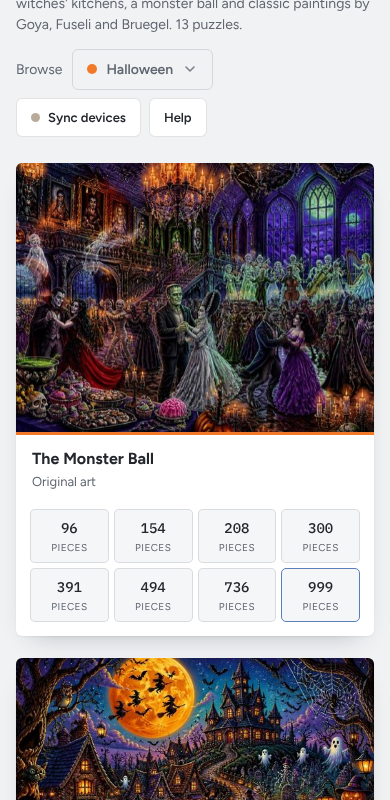
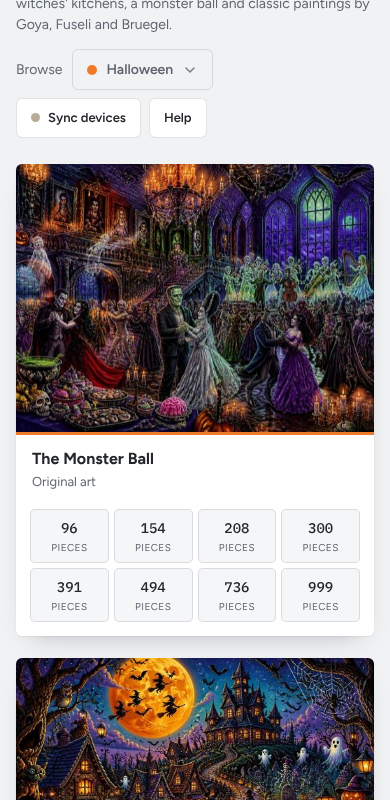
Header steps replace the size line; no puzzle counts anywhere; Good vibes listed above Halloween
Claude-Session: https://claude.ai/code/session_01X4jKmC36k778ncv5ZPyc4q

diff --git a/public/index.html b/public/index.html
@@ -61,6 +61,9 @@ button{font:inherit;color:inherit}
 .mast .intro{min-width:0}
 .mast h1{font-family:var(--display);font-weight:400;font-size:clamp(42px,8vw,76px);line-height:1;letter-spacing:-.01em;margin:0;color:var(--head-soft);text-wrap:balance}
 .mast h1 span{color:var(--head-ink)}
+.steps{list-style:none;padding:0;margin:22px 0 0;display:flex;flex-wrap:wrap;gap:10px 22px}
+.steps li{display:flex;align-items:center;gap:9px;font-weight:700;font-size:15px;font-family:"Nunito",var(--body);color:var(--head-ink)}
+.steps b{flex:none;width:30px;height:30px;border-radius:50%;display:flex;align-items:center;justify-content:center;font-size:14px;color:#23262b}
 .mast p{font-family:"Nunito",var(--body);font-size:clamp(16px,2vw,19px);line-height:1.55;margin:24px 0 0;max-width:36em;color:var(--head-ink);opacity:.95}
 .shelfhead{margin:26px 0 14px}
 .shelfhead h2{font-family:var(--display);font-weight:400;font-size:clamp(24px,3.2vw,30px);line-height:1.1;margin:0;color:var(--ink)}
@@ -285,7 +288,8 @@ label.hard input{accent-color:var(--brass-text);width:16px;height:16px;margin:0}
   <header class="mast"><div class="wrap">
     <div class="intro">
       <h1>Puzzle <span>Parlor</span></h1>
-      <p id="lede">Jigsaw puzzles of spooky Halloween scenes, cozy Christmas and holiday pictures, famous paintings, fantasy worlds, fairy tales and landscapes.<br>Pick any picture and choose from 100 to 1,000 pieces.</p>
+      <p id="lede">Jigsaw puzzles of spooky Halloween scenes, cozy Christmas and holiday pictures, famous paintings, fantasy worlds, fairy tales and landscapes.</p>
+      <ol class="steps"><li><b style="background:#cfe0f7">1</b>Pick any picture</li><li><b style="background:#f6c453">2</b>Choose your size</li><li><b style="background:#b5e48c">3</b>Watch it come together</li></ol>
     </div>
 <section id="promo" hidden aria-label="Special offer">
       <div class="pic"><img id="promoImg" alt="" width="520" height="390"><span class="kick" id="promoKick"></span></div>
@@ -416,6 +420,7 @@ label.hard input{accent-color:var(--brass-text);width:16px;height:16px;margin:0}
 const THEME_SUB={"halloween": "Spooky jigsaw puzzles for the season: haunted villages, witches' kitchens, a monster ball and classic paintings by Goya, Fuseli and Bruegel.", "holiday": "Festive puzzles through the year: Thanksgiving, winter ice scenes, village autumns and the Feast of St. Nicholas.", "christmas": "Cozy Christmas jigsaw puzzles: Bruegel's snowy villages, Botticelli's nativity, Carl Larsson's Christmas Eve, Santa's workshop and a gingerbread village.", "paintings": "Famous paintings as jigsaw puzzles: Van Gogh, Monet, Seurat, Klimt, Renoir, Bosch and Hokusai's Great Wave.", "fantasy": "Titans, heroes, fairy fellers and the end of days. Adventure puzzles from Thomas Cole, Vasnetsov, John Martin and more.", "fairytales": "Storybook puzzles: Vasnetsov's Russian fairy tales, John Bauer's forest princess, a gingerbread house and a kingdom of your own.", "landscapes": "Mountains, canyons, forests and coastlines from Bierstadt, Church, Moran, Cole, Shishkin and Van Gogh.", "animals": "Animal puzzles with a smile: a woodland picnic, chaos at the cat cafe, dog park day and a waterhole at sunset.", "sports": "Street circuits, drag races, regattas and a day in the field. Sports puzzles full of action.", "vibes": "Zen gardens, koi ponds, uplifting sayings and a little silliness. Puzzles for a good mood."};
 const CATS=[
   {id:'home',label:'Home'},
+  {id:'vibes',label:'Good vibes'},
   {id:'halloween',label:'Halloween'},
   {id:'holiday',label:'Holidays'},
   {id:'christmas',label:'Christmas'},
@@ -425,7 +430,6 @@ const CATS=[
   {id:'landscapes',label:'Landscapes'},
   {id:'animals',label:'Animals'},
   {id:'sports',label:'Sports'},
-  {id:'vibes',label:'Good vibes'},
   {id:'photos',label:'My photos'}];
 const IMAGES=[{"cat": "halloween", "slug": "monster-ball", "title": "The Monster Ball", "artist": "Original art", "year": "", "w": 2912, "h": 2176, "page": "", "isNew": true, "added": ""}, {"cat": "halloween", "slug": "haunted-village", "title": "Haunted Hollow Village", "artist": "Original art", "year": "", "w": 2912, "h": 2176, "page": "", "isNew": true, "added": ""}, {"cat": "halloween", "slug": "haunted-library", "title": "The Haunted Library", "artist": "Original art", "year": "", "w": 2912, "h": 2912, "page": "", "isNew": true, "added": "2026-10-26"}, {"cat": "halloween", "slug": "witches-sabbath", "title": "Witches' Sabbath", "artist": "Francisco Goya", "year": "1797–98", "w": 1792, "h": 2560, "page": "https://commons.wikimedia.org/wiki/File:Francisco_de_Goya_y_Lucientes_-_Witches_Sabbath_-_Google_Art_Project.jpg", "isNew": false, "added": ""}, {"cat": "halloween", "slug": "triumph-of-death", "title": "The Triumph of Death", "artist": "Pieter Bruegel the Elder", "year": "c. 1562", "w": 2126, "h": 1517, "page": "https://commons.wikimedia.org/wiki/File:The_Triumph_of_Death_by_Pieter_Bruegel_the_Elder.jpg", "isNew": false, "added": ""}, {"cat": "halloween", "slug": "isle-of-the-dead", "title": "Isle of the Dead", "artist": "Arnold Böcklin", "year": "1880", "w": 2560, "h": 1825, "page": "https://commons.wikimedia.org/wiki/File:Arnold_B%C3%B6cklin_-_Die_Toteninsel_I_(Basel,_Kunstmuseum).jpg", "isNew": false, "added": ""}, {"cat": "halloween", "slug": "the-nightmare", "title": "The Nightmare", "artist": "Henry Fuseli", "year": "1781", "w": 3000, "h": 2431, "page": "https://commons.wikimedia.org/wiki/File:John_Henry_Fuseli_-_The_Nightmare.JPG", "isNew": false, "added": ""}, {"cat": "halloween", "slug": "flight-of-witches", "title": "Flight of the Witches", "artist": "Francisco Goya", "year": "1798", "w": 1681, "h": 2400, "page": "https://commons.wikimedia.org/wiki/File:Francisco_de_Goya_-_Vuelo_de_brujas_(1798).jpg", "isNew": false, "added": ""}, {"cat": "holiday", "slug": "ice-skaters", "title": "Ice Scene", "artist": "Hendrick Avercamp", "year": "1610", "w": 2400, "h": 1204, "page": "https://commons.wikimedia.org/wiki/File:Hendrick_Avercamp_-_Ice_Scene_-_785_-_Rijksmuseum.jpg", "isNew": false, "added": ""}, {"cat": "holiday", "slug": "st-nicholas", "title": "The Feast of St. Nicholas", "artist": "Jan Steen", "year": "c. 1663–65", "w": 2047, "h": 2400, "page": "https://commons.wikimedia.org/wiki/File:Jan_Havicksz._Steen_%E2%80%93_Het_Sint-Nicolaasfeest_%E2%80%93_Google_Art_Project.jpg", "isNew": false, "added": ""}, {"cat": "holiday", "slug": "thanksgiving", "title": "Thanksgiving at Plymouth", "artist": "Jennie Augusta Brownscombe", "year": "1925", "w": 2400, "h": 1808, "page": "https://commons.wikimedia.org/wiki/File:Thanksgiving_at_Plymouth,_1925,_Brownscombe.jpg", "isNew": false, "added": ""}, {"cat": "holiday", "slug": "childrens-games", "title": "Children's Games", "artist": "Pieter Bruegel the Elder", "year": "1560", "w": 2400, "h": 1743, "page": "https://commons.wikimedia.org/wiki/File:Pieter_Bruegel_the_Elder_-_Children%E2%80%99s_Games_-_Google_Art_Project.jpg", "isNew": false, "added": ""}, {"cat": "christmas", "slug": "hunters-in-snow", "title": "Hunters in the Snow", "artist": "Pieter Bruegel the Elder", "year": "1565", "w": 2400, "h": 1708, "page": "https://commons.wikimedia.org/wiki/File:Pieter_Bruegel_the_Elder_-_Hunters_in_the_Snow_(Winter)_-_Google_Art_Project.jpg", "isNew": false, "added": ""}, {"cat": "christmas", "slug": "bethlehem", "title": "The Census at Bethlehem", "artist": "Pieter Bruegel the Elder", "year": "1566", "w": 2400, "h": 1663, "page": "https://commons.wikimedia.org/wiki/File:Pieter_Bruegel_the_Elder_-_The_Numbering_at_Bethlehem_-_Google_Art_Project.jpg", "isNew": false, "added": ""}, {"cat": "christmas", "slug": "merry-christmas", "title": "Merry Christmas (Glade jul)", "artist": "Viggo Johansen", "year": "1891", "w": 2400, "h": 1933, "page": "https://commons.wikimedia.org/wiki/File:Viggo_Johansen_-_Glade_jul_-_1891.jpg", "isNew": false, "added": ""}, {"cat": "christmas", "slug": "christmas-eve", "title": "Christmas Eve", "artist": "Carl Larsson", "year": "1904–05", "w": 2400, "h": 1648, "page": "https://commons.wikimedia.org/wiki/File:Julaftonen_av_Carl_Larsson_1904.jpg", "isNew": false, "added": ""}, {"cat": "christmas", "slug": "mystic-nativity", "title": "Mystic Nativity", "artist": "Sandro Botticelli", "year": "c. 1500", "w": 1661, "h": 2400, "page": "https://commons.wikimedia.org/wiki/File:Mystic_Nativity_by_Sandro_Botticelli.jpg", "isNew": false, "added": ""}, {"cat": "paintings", "slug": "starry-night", "title": "The Starry Night", "artist": "Vincent van Gogh", "year": "1889", "w": 2400, "h": 1901, "page": "https://commons.wikimedia.org/wiki/File:Van_Gogh_-_Starry_Night_-_Google_Art_Project.jpg", "isNew": false, "added": ""}, {"cat": "paintings", "slug": "great-wave", "title": "The Great Wave off Kanagawa", "artist": "After Katsushika Hokusai", "year": "c. 1830–32 design", "w": 2400, "h": 1656, "page": "https://commons.wikimedia.org/wiki/File:The_Great_Wave_off_Kanagawa.jpg", "isNew": false, "added": ""}, {"cat": "paintings", "slug": "grande-jatte", "title": "A Sunday on La Grande Jatte", "artist": "Georges Seurat", "year": "1884–86", "w": 2400, "h": 1598, "page": "https://commons.wikimedia.org/wiki/File:Georges_Seurat_-_A_Sunday_on_La_Grande_Jatte_--_1884_-_Google_Art_Project.jpg", "isNew": false, "added": ""}, {"cat": "paintings", "slug": "the-kiss", "title": "The Kiss", "artist": "Gustav Klimt", "year": "1907–08", "w": 2392, "h": 2400, "page": "https://commons.wikimedia.org/wiki/File:The_Kiss_-_Gustav_Klimt_-_Google_Cultural_Institute.jpg", "isNew": false, "added": ""}, {"cat": "paintings", "slug": "water-lilies", "title": "Water Lilies", "artist": "Claude Monet", "year": "1916", "w": 3000, "h": 3005, "page": "https://commons.wikimedia.org/wiki/File:Claude_Monet_-_Water_Lilies_-_Google_Art_Project_(462013).jpg", "isNew": false, "added": ""}, {"cat": "paintings", "slug": "cafe-terrace", "title": "Café Terrace at Night", "artist": "Vincent van Gogh", "year": "1888", "w": 1913, "h": 2400, "page": "https://commons.wikimedia.org/wiki/File:Vincent_Willem_van_Gogh_-_Cafe_Terrace_at_Night_(Yorck).jpg", "isNew": false, "added": ""}, {"cat": "paintings", "slug": "boating-party", "title": "Luncheon of the Boating Party", "artist": "Pierre-Auguste Renoir", "year": "1880–81", "w": 2400, "h": 1778, "page": "https://commons.wikimedia.org/wiki/File:Pierre-Auguste_Renoir_-_Luncheon_of_the_Boating_Party_-_Google_Art_Project.jpg", "isNew": false, "added": ""}, {"cat": "paintings", "slug": "earthly-delights", "title": "The Garden of Earthly Delights", "artist": "Hieronymus Bosch", "year": "c. 1480–1505", "w": 2400, "h": 1366, "page": "https://commons.wikimedia.org/wiki/File:The_Garden_of_earthly_delights.jpg", "isNew": false, "added": ""}, {"cat": "fantasy", "slug": "titans-goblet", "title": "The Titan's Goblet", "artist": "Thomas Cole", "year": "1833", "w": 1920, "h": 2288, "page": "https://commons.wikimedia.org/wiki/File:The_Titan%27s_Goblet_MET_DP-12799-001.jpg", "isNew": false, "added": ""}, {"cat": "fantasy", "slug": "midsummer-eve", "title": "Midsummer Eve", "artist": "Edward Robert Hughes", "year": "c. 1908", "w": 1600, "h": 2400, "page": "https://commons.wikimedia.org/wiki/File:Midsummer_Eve_-_Edward_Robert_Hughes_(1908).jpg", "isNew": false, "added": ""}, {"cat": "fantasy", "slug": "bogatyrs", "title": "Bogatyrs", "artist": "Viktor Vasnetsov", "year": "1898", "w": 3000, "h": 1928, "page": "https://commons.wikimedia.org/wiki/File:1898_Vasnetsov_Bogatyrs_anagoria.JPG", "isNew": false, "added": ""}, {"cat": "fantasy", "slug": "fairy-feller", "title": "The Fairy Feller's Master-Stroke", "artist": "Richard Dadd", "year": "c. 1855–64", "w": 1728, "h": 2400, "page": "https://commons.wikimedia.org/wiki/File:Richard_Dadd_-_The_Fairy_Feller%27s_Master-Stroke_-_Google_Art_Project.jpg", "isNew": false, "added": ""}, {"cat": "fantasy", "slug": "voyage-of-life", "title": "The Voyage of Life: Childhood", "artist": "Thomas Cole", "year": "1842", "w": 2400, "h": 1621, "page": "https://commons.wikimedia.org/wiki/File:Thomas_Cole_-_The_Voyage_of_Life_Childhood,_1842_(National_Gallery_of_Art).jpg", "isNew": false, "added": ""}, {"cat": "fantasy", "slug": "wrath", "title": "The Great Day of His Wrath", "artist": "John Martin", "year": "c. 1851–53", "w": 2400, "h": 1548, "page": "https://commons.wikimedia.org/wiki/File:John_Martin_-_The_Great_Day_of_His_Wrath_-_Google_Art_Project.jpg", "isNew": false, "added": ""}, {"cat": "landscapes", "slug": "sierra-nevada", "title": "Among the Sierra Nevada, California", "artist": "Albert Bierstadt", "year": "1868", "w": 3000, "h": 1794, "page": "https://commons.wikimedia.org/wiki/File:Albert_Bierstadt_-_Among_the_Sierra_Nevada,_California_-_Google_Art_Project.jpg", "isNew": false, "added": ""}, {"cat": "landscapes", "slug": "landers-peak", "title": "The Rocky Mountains, Lander's Peak", "artist": "Albert Bierstadt", "year": "1863", "w": 3000, "h": 1797, "page": "https://commons.wikimedia.org/wiki/File:Albert_Bierstadt_-_The_Rocky_Mountains,_Lander%27s_Peak.jpg", "isNew": false, "added": ""}, {"cat": "landscapes", "slug": "heart-of-andes", "title": "Heart of the Andes", "artist": "Frederic Edwin Church", "year": "1859", "w": 3000, "h": 1642, "page": "https://commons.wikimedia.org/wiki/File:Church_Heart_of_the_Andes.jpg", "isNew": false, "added": ""}, {"cat": "landscapes", "slug": "yellowstone", "title": "The Grand Canyon of the Yellowstone", "artist": "Thomas Moran", "year": "1872", "w": 3000, "h": 1757, "page": "https://commons.wikimedia.org/wiki/File:Smithsonian-Moran-The_Grand_Canyon_of_the_Yellowstone-2283.jpg", "isNew": false, "added": ""}, {"cat": "landscapes", "slug": "the-oxbow", "title": "The Oxbow", "artist": "Thomas Cole", "year": "1836", "w": 3000, "h": 2038, "page": "https://commons.wikimedia.org/wiki/File:Cole_Thomas_The_Oxbow_(The_Connecticut_River_near_Northampton_1836).jpg", "isNew": false, "added": ""}, {"cat": "landscapes", "slug": "pine-forest", "title": "Morning in a Pine Forest", "artist": "Ivan Shishkin and Konstantin Savitsky", "year": "1889", "w": 3000, "h": 2033, "page": "https://commons.wikimedia.org/wiki/File:Shishkin,_Ivan_-_Morning_in_a_Pine_Forest.jpg", "isNew": false, "added": ""}, {"cat": "landscapes", "slug": "wheat-cypresses", "title": "Wheat Field with Cypresses", "artist": "Vincent van Gogh", "year": "1889", "w": 3000, "h": 2386, "page": "https://commons.wikimedia.org/wiki/File:Vincent_van_Gogh_-_Wheat_Field_with_Cypresses_(National_Gallery_version).jpg", "isNew": false, "added": ""}, {"cat": "landscapes", "slug": "sea-of-fog", "title": "Wanderer above the Sea of Fog", "artist": "Caspar David Friedrich", "year": "c. 1817", "w": 1874, "h": 2400, "page": "https://commons.wikimedia.org/wiki/File:Caspar_David_Friedrich_-_Wanderer_above_the_sea_of_fog.jpg", "isNew": false, "added": ""}, {"cat": "fairytales", "slug": "grey-wolf", "title": "Ivan Tsarevich Riding the Grey Wolf", "artist": "Viktor Vasnetsov", "year": "1889", "w": 1824, "h": 2400, "page": "https://commons.wikimedia.org/wiki/File:Moscou,_galerie_Tretiakov_Ivan-Tsarevitch_at_the_Grey_Wolf_(Vasnetsov).jpg", "isNew": false, "added": ""}, {"cat": "fairytales", "slug": "flying-carpet", "title": "The Flying Carpet", "artist": "Viktor Vasnetsov", "year": "1880", "w": 3000, "h": 1652, "page": "https://commons.wikimedia.org/wiki/File:Vasnetsov_samolet.jpg", "isNew": false, "added": ""}, {"cat": "fairytales", "slug": "sleeping-princess", "title": "The Sleeping Princess", "artist": "Viktor Vasnetsov", "year": "1900–26", "w": 3000, "h": 1403, "page": "https://commons.wikimedia.org/wiki/File:%D0%A1%D0%BF%D1%8F%D1%89%D0%B0%D1%8F_%D1%86%D0%B0%D1%80%D0%B5%D0%B2%D0%BD%D0%B0.jpg", "isNew": false, "added": ""}, {"cat": "fairytales", "slug": "tuvstarr", "title": "Princess Tuvstarr Gazing into the Forest Pool", "artist": "John Bauer", "year": "1913", "w": 3000, "h": 3025, "page": "https://commons.wikimedia.org/wiki/File:%C3%84nnu_sitter_Tuvstarr_kvar_och_ser_ner_i_vattnet.jpg", "isNew": false, "added": ""}, {"cat": "halloween", "slug": "witch-kitchen", "title": "The Witch's Kitchen", "artist": "Original art", "year": "", "w": 2912, "h": 2176, "page": "", "isNew": true, "added": ""}, {"cat": "halloween", "slug": "midnight-graveyard", "title": "Midnight Graveyard", "artist": "Original art", "year": "", "w": 2912, "h": 2176, "page": "", "isNew": true, "added": ""}, {"cat": "fairytales", "slug": "fairytale-kingdom", "title": "Once Upon a Kingdom", "artist": "Original art", "year": "", "w": 2912, "h": 2176, "page": "", "isNew": true, "added": ""}, {"cat": "fairytales", "slug": "gingerbread-house", "title": "Hansel and Gretel's Gingerbread House", "artist": "Original art", "year": "", "w": 2912, "h": 2176, "page": "", "isNew": true, "added": ""}, {"cat": "christmas", "slug": "santa-workshop", "title": "Santa's Workshop", "artist": "Original art", "year": "", "w": 2912, "h": 2176, "page": "", "isNew": true, "added": ""}, {"cat": "christmas", "slug": "gingerbread-village", "title": "Gingerbread Village", "artist": "Original art", "year": "", "w": 2912, "h": 2176, "page": "", "isNew": true, "added": ""}, {"cat": "christmas", "slug": "sleigh-over-town", "title": "Christmas Eve Flight", "artist": "Original art", "year": "", "w": 2912, "h": 2176, "page": "", "isNew": true, "added": ""}, {"cat": "animals", "slug": "forest-picnic", "title": "The Woodland Picnic", "artist": "Original art", "year": "", "w": 2912, "h": 2176, "page": "", "isNew": true, "added": ""}, {"cat": "animals", "slug": "cat-cafe", "title": "Chaos at the Cat Café", "artist": "Original art", "year": "", "w": 2912, "h": 2176, "page": "", "isNew": true, "added": ""}, {"cat": "animals", "slug": "dog-park", "title": "Dog Park Day", "artist": "Original art", "year": "", "w": 2912, "h": 2176, "page": "", "isNew": true, "added": ""}, {"cat": "sports", "slug": "grand-prix-street", "title": "Street Circuit Showdown", "artist": "Original art", "year": "", "w": 2912, "h": 2184, "page": "", "isNew": true, "added": ""}, {"cat": "sports", "slug": "drag-race", "title": "Sunset Drag Race", "artist": "Original art", "year": "", "w": 2912, "h": 2184, "page": "", "isNew": true, "added": ""}, {"cat": "holiday", "slug": "autumn-village", "title": "Autumn in the Village", "artist": "Original art", "year": "", "w": 2912, "h": 2184, "page": "", "isNew": true, "added": ""}, {"cat": "animals", "slug": "savanna-sunset", "title": "Waterhole at Sunset", "artist": "Original art", "year": "", "w": 2912, "h": 2184, "page": "", "isNew": true, "added": ""}, {"cat": "landscapes", "slug": "aurora-lake", "title": "Northern Lights over the Lake", "artist": "Original art", "year": "", "w": 2912, "h": 1941, "page": "", "isNew": true, "added": ""}, {"cat": "vibes", "slug": "zen-garden", "title": "Evening in the Zen Garden", "artist": "Original art", "year": "", "w": 2912, "h": 2184, "page": "", "isNew": true, "added": ""}, {"cat": "vibes", "slug": "choose-happiness", "title": "Choose Happiness", "artist": "Original art", "year": "", "w": 2912, "h": 1941, "page": "", "isNew": true, "added": "2026-10-20"}, {"cat": "vibes", "slug": "silly-cow", "title": "A Little Silliness", "artist": "Original art", "year": "", "w": 2912, "h": 2184, "page": "", "isNew": true, "added": "2026-10-20"}, {"cat": "sports", "slug": "hunter-and-dog", "title": "The Hunter and His Dog", "artist": "Original art", "year": "", "w": 2912, "h": 1941, "page": "", "isNew": true, "added": ""}, {"cat": "sports", "slug": "regatta", "title": "Regatta Day", "artist": "Original art", "year": "", "w": 2912, "h": 1941, "page": "", "isNew": true, "added": ""}, {"cat": "vibes", "slug": "zen-morning", "title": "Morning in the Zen Garden", "artist": "Original art", "year": "", "w": 2912, "h": 2184, "page": "", "isNew": true, "added": "2026-10-20"}, {"cat": "vibes", "slug": "carnival-lights", "title": "A Night at the Fair", "artist": "Original art", "year": "", "w": 2912, "h": 2184, "page": "", "isNew": true, "added": "2026-10-20"}, {"cat": "vibes", "slug": "zen-bamboo", "title": "The Bamboo Zen Garden", "artist": "Original art", "year": "", "w": 2912, "h": 1664, "page": "", "isNew": true, "added": "2026-10-20"}, {"cat": "vibes", "slug": "zen-waterfall", "title": "Buddha by the Waterfall", "artist": "Original art", "year": "", "w": 2912, "h": 1664, "page": "", "isNew": true, "added": "2026-10-20"}, {"cat": "halloween", "slug": "monster-ball-toon", "title": "Monsters' Night Out", "artist": "Original art", "year": "", "w": 2912, "h": 1941, "page": "", "isNew": true, "added": "2026-10-20"}, {"cat": "halloween", "slug": "trick-or-treat-lane", "title": "Trick-or-Treat Lane", "artist": "Original art", "year": "", "w": 2912, "h": 1941, "page": "", "isNew": true, "added": "2026-10-20"}, {"cat": "halloween", "slug": "witch-kitchen-toon", "title": "The Witch's Brew", "artist": "Original art", "year": "", "w": 2912, "h": 1941, "page": "", "isNew": true, "added": "2026-10-20"}, {"cat": "vibes", "slug": "koi-garden-sunset", "title": "Koi Garden at Sunset", "artist": "Original art", "year": "", "w": 2912, "h": 1941, "page": "", "isNew": true, "added": "2026-10-20"}, {"cat": "vibes", "slug": "zen-stones", "title": "Balance", "artist": "Original art", "year": "", "w": 2912, "h": 2912, "page": "", "isNew": true, "added": "2026-10-23"}, {"cat": "vibes", "slug": "stay-wild", "title": "Stay a Little Wild", "artist": "Original art", "year": "", "w": 2912, "h": 2912, "page": "", "isNew": true, "added": "2026-10-26"}, {"cat": "animals", "slug": "owl-at-dusk", "title": "Owl at Dusk", "artist": "Original art", "year": "", "w": 2912, "h": 2912, "page": "", "isNew": true, "added": "2026-10-27"}, {"cat": "animals", "slug": "reef-paradise", "title": "Reef Paradise", "artist": "Original art", "year": "", "w": 2912, "h": 1941, "page": "", "isNew": true, "added": "2026-10-27"}, {"cat": "animals", "slug": "tide-pools-sunset", "title": "Tide Pools at Sunset", "artist": "Original art", "year": "", "w": 2912, "h": 1941, "page": "", "isNew": true, "added": "2026-10-27"}, {"cat": "animals", "slug": "koi-pond", "title": "Koi Pond at Dusk", "artist": "Original art", "year": "", "w": 2912, "h": 2184, "page": "", "isNew": true, "added": "2026-10-27"}, {"cat": "sports", "slug": "speedway-sunset", "title": "Speedway at Sunset", "artist": "Original art", "year": "", "w": 2912, "h": 1941, "page": "", "isNew": true, "added": "2026-10-27"}, {"cat": "sports", "slug": "stadium-lights", "title": "Under the Stadium Lights", "artist": "Original art", "year": "", "w": 2912, "h": 2184, "page": "", "isNew": true, "added": "2026-10-27"}, {"cat": "holiday", "slug": "harvest-kitchen", "title": "The Harvest Kitchen", "artist": "Original art", "year": "", "w": 2912, "h": 2912, "page": "", "isNew": true, "added": "2026-10-27"}, {"cat": "fairytales", "slug": "enchanted-cottage", "title": "The Enchanted Cottage", "artist": "Original art", "year": "", "w": 2912, "h": 2912, "page": "", "isNew": true, "added": "2026-10-27"}, {"cat": "fairytales", "slug": "wandering-bookshop", "title": "The Wandering Bookshop", "artist": "Original art", "year": "", "w": 2912, "h": 2184, "page": "", "isNew": true, "added": "2026-10-27"}, {"cat": "landscapes", "slug": "lantern-festival", "title": "The Lantern Festival", "artist": "Original art", "year": "", "w": 2912, "h": 1941, "page": "", "isNew": true, "added": "2026-10-27"}, {"cat": "landscapes", "slug": "winter-cabin", "title": "Cabin Under the Northern Lights", "artist": "Original art", "year": "", "w": 2912, "h": 1941, "page": "", "isNew": true, "added": "2026-10-27"}, {"cat": "paintings", "slug": "paris-rainy-day", "title": "Paris Street; Rainy Day", "artist": "Gustave Caillebotte", "year": "1877", "w": 3000, "h": 2272, "page": "https://commons.wikimedia.org/wiki/File:Gustave_Caillebotte_-_Paris_Street;_Rainy_Day_-_Google_Art_Project.jpg", "isNew": true, "added": "2026-10-27"}, {"cat": "paintings", "slug": "woman-parasol", "title": "Woman with a Parasol", "artist": "Claude Monet", "year": "1875", "w": 3000, "h": 3727, "page": "https://commons.wikimedia.org/wiki/File:Claude_Monet_-_Woman_with_a_Parasol_-_Madame_Monet_and_Her_Son_-_Google_Art_Project.jpg", "isNew": true, "added": "2026-10-27"}, {"cat": "vibes", "slug": "zen-sunset", "title": "Sunset over the Zen Garden", "artist": "Original art", "year": "", "w": 2912, "h": 2184, "page": "", "isNew": true, "added": "2026-10-27"}];
 const SIZES=[100,150,200,300,400,500,750,1000];
@@ -541,7 +545,7 @@ function renderTabs(){
   $('themeBtn').style.setProperty('--dot',`var(--c-${c.id})`); $('themeBtn').querySelector('i').style.background=`var(--c-${c.id})`;
   $('themeName').textContent=c.label;
   $('shelfTitle').textContent=c.id==='home'?"Today's Featured Puzzles":c.id==='photos'?'My photos':c.label;
-  $('shelfSub').textContent=c.id==='home'?'Enjoy our selection of free jigsaw puzzles, from famous paintings to original art, in sizes from 100 to 1,000 pieces. Upgrade to the unlocked version to play every puzzle in every theme.':c.id==='photos'?'Puzzles made from your own pictures, on this device only.':(THEME_SUB[c.id]||'')+` ${countOf(c.id)} puzzles.`;
+  $('shelfSub').textContent=c.id==='home'?'Enjoy our selection of free jigsaw puzzles, from famous paintings to original art, in sizes from 100 to 1,000 pieces. Upgrade to the unlocked version to play every puzzle in every theme.':c.id==='photos'?'Puzzles made from your own pictures, on this device only.':(THEME_SUB[c.id]||'');
   $('themeMenu').innerHTML='<li class="hint" role="presentation">Choose a theme · star it to keep a shortcut</li>'+CATS.filter(x=>x.id==='photos'||countOf(x.id)>0).map(x=>`<li role="option" aria-selected="${x.id===cat}" class="${x.id===cat?'cur':''}"><button class="pick" data-cat="${x.id}" style="--dot:var(--c-${x.id})"><i></i>${x.label}</button><button class="pinb" data-pin="${x.id}" aria-pressed="${pins.includes(x.id)}" aria-label="${pins.includes(x.id)?'Unpin':'Pin'} ${x.label}" title="${pins.includes(x.id)?'Remove shortcut':'Keep as a shortcut'}">${PIN_SVG}</button></li>`).join('');
   $('pins').innerHTML=pins.map(id=>{const x=CATS.find(c=>c.id===id);return `<button class="tab" id="tab-${id}" aria-pressed="${id===cat}" aria-selected="${id===cat}" style="--dot:var(--c-${id})" data-cat="${id}"><i></i>${x.label}</button>`}).join('');
 }
@@ -619,7 +623,7 @@ function openLook(img){ if(!img) return; const im=$('lookImg'); im.src=thumbOf(i
   $('look').hidden=false; }
 $('look').onclick=()=>{$('look').hidden=true;$('lookImg').src=''};
 document.addEventListener('keydown',e=>{ if(e.key==='Escape'&&!$('look').hidden){$('look').hidden=true;$('lookImg').src=''} });
-$('lede').innerHTML='Jigsaw puzzles of spooky Halloween scenes, cozy Christmas and holiday pictures, famous paintings, fantasy worlds, fairy tales, landscapes, animals, sports and racing, happy sayings, or your own photos.<br>Pick any picture and choose from 100 to 1,000 pieces.';
+$('lede').innerHTML='Jigsaw puzzles of spooky Halloween scenes, cozy Christmas and holiday pictures, famous paintings, fantasy worlds, fairy tales, landscapes, animals, sports and racing, happy sayings, or your own photos.';
 renderTabs();renderGrid();
 function renderPromo(){ const p=PROMOS.find(promoActive); const el=$('promo'); if(!p){el.hidden=true;return}
   const img=findImg(p.slug); if(!img){el.hidden=true;return}

diff --git a/tools/index.src.html b/tools/index.src.html
@@ -36,6 +36,9 @@ button{font:inherit;color:inherit}
 .mast .intro{min-width:0}
 .mast h1{font-family:var(--display);font-weight:400;font-size:clamp(42px,8vw,76px);line-height:1;letter-spacing:-.01em;margin:0;color:var(--head-soft);text-wrap:balance}
 .mast h1 span{color:var(--head-ink)}
+.steps{list-style:none;padding:0;margin:22px 0 0;display:flex;flex-wrap:wrap;gap:10px 22px}
+.steps li{display:flex;align-items:center;gap:9px;font-weight:700;font-size:15px;font-family:"Nunito",var(--body);color:var(--head-ink)}
+.steps b{flex:none;width:30px;height:30px;border-radius:50%;display:flex;align-items:center;justify-content:center;font-size:14px;color:#23262b}
 .mast p{font-family:"Nunito",var(--body);font-size:clamp(16px,2vw,19px);line-height:1.55;margin:24px 0 0;max-width:36em;color:var(--head-ink);opacity:.95}
 .shelfhead{margin:26px 0 14px}
 .shelfhead h2{font-family:var(--display);font-weight:400;font-size:clamp(24px,3.2vw,30px);line-height:1.1;margin:0;color:var(--ink)}
@@ -257,7 +260,8 @@ label.hard input{accent-color:var(--brass-text);width:16px;height:16px;margin:0}
   <header class="mast"><div class="wrap">
     <div class="intro">
       <h1>Puzzle <span>Parlor</span></h1>
-      <p id="lede">Jigsaw puzzles of spooky Halloween scenes, cozy Christmas and holiday pictures, famous paintings, fantasy worlds, fairy tales and landscapes.<br>Pick any picture and choose from 100 to 1,000 pieces.</p>
+      <p id="lede">Jigsaw puzzles of spooky Halloween scenes, cozy Christmas and holiday pictures, famous paintings, fantasy worlds, fairy tales and landscapes.</p>
+      <ol class="steps"><li><b style="background:#cfe0f7">1</b>Pick any picture</li><li><b style="background:#f6c453">2</b>Choose your size</li><li><b style="background:#b5e48c">3</b>Watch it come together</li></ol>
     </div>
 <section id="promo" hidden aria-label="Special offer">
       <div class="pic"><img id="promoImg" alt="" width="520" height="390"><span class="kick" id="promoKick"></span></div>
@@ -388,6 +392,7 @@ label.hard input{accent-color:var(--brass-text);width:16px;height:16px;margin:0}
 const THEME_SUB={"halloween": "Spooky jigsaw puzzles for the season: haunted villages, witches' kitchens, a monster ball and classic paintings by Goya, Fuseli and Bruegel.", "holiday": "Festive puzzles through the year: Thanksgiving, winter ice scenes, village autumns and the Feast of St. Nicholas.", "christmas": "Cozy Christmas jigsaw puzzles: Bruegel's snowy villages, Botticelli's nativity, Carl Larsson's Christmas Eve, Santa's workshop and a gingerbread village.", "paintings": "Famous paintings as jigsaw puzzles: Van Gogh, Monet, Seurat, Klimt, Renoir, Bosch and Hokusai's Great Wave.", "fantasy": "Titans, heroes, fairy fellers and the end of days. Adventure puzzles from Thomas Cole, Vasnetsov, John Martin and more.", "fairytales": "Storybook puzzles: Vasnetsov's Russian fairy tales, John Bauer's forest princess, a gingerbread house and a kingdom of your own.", "landscapes": "Mountains, canyons, forests and coastlines from Bierstadt, Church, Moran, Cole, Shishkin and Van Gogh.", "animals": "Animal puzzles with a smile: a woodland picnic, chaos at the cat cafe, dog park day and a waterhole at sunset.", "sports": "Street circuits, drag races, regattas and a day in the field. Sports puzzles full of action.", "vibes": "Zen gardens, koi ponds, uplifting sayings and a little silliness. Puzzles for a good mood."};
 const CATS=[
   {id:'home',label:'Home'},
+  {id:'vibes',label:'Good vibes'},
   {id:'halloween',label:'Halloween'},
   {id:'holiday',label:'Holidays'},
   {id:'christmas',label:'Christmas'},
@@ -397,7 +402,6 @@ const CATS=[
   {id:'landscapes',label:'Landscapes'},
   {id:'animals',label:'Animals'},
   {id:'sports',label:'Sports'},
-  {id:'vibes',label:'Good vibes'},
   {id:'photos',label:'My photos'}];
 const IMAGES=/*IMAGES*/[];
 const SIZES=[100,150,200,300,400,500,750,1000];
@@ -513,7 +517,7 @@ function renderTabs(){
   $('themeBtn').style.setProperty('--dot',`var(--c-${c.id})`); $('themeBtn').querySelector('i').style.background=`var(--c-${c.id})`;
   $('themeName').textContent=c.label;
   $('shelfTitle').textContent=c.id==='home'?"Today's Featured Puzzles":c.id==='photos'?'My photos':c.label;
-  $('shelfSub').textContent=c.id==='home'?'Enjoy our selection of free jigsaw puzzles, from famous paintings to original art, in sizes from 100 to 1,000 pieces. Upgrade to the unlocked version to play every puzzle in every theme.':c.id==='photos'?'Puzzles made from your own pictures, on this device only.':(THEME_SUB[c.id]||'')+` ${countOf(c.id)} puzzles.`;
+  $('shelfSub').textContent=c.id==='home'?'Enjoy our selection of free jigsaw puzzles, from famous paintings to original art, in sizes from 100 to 1,000 pieces. Upgrade to the unlocked version to play every puzzle in every theme.':c.id==='photos'?'Puzzles made from your own pictures, on this device only.':(THEME_SUB[c.id]||'');
   $('themeMenu').innerHTML='<li class="hint" role="presentation">Choose a theme · star it to keep a shortcut</li>'+CATS.filter(x=>x.id==='photos'||countOf(x.id)>0).map(x=>`<li role="option" aria-selected="${x.id===cat}" class="${x.id===cat?'cur':''}"><button class="pick" data-cat="${x.id}" style="--dot:var(--c-${x.id})"><i></i>${x.label}</button><button class="pinb" data-pin="${x.id}" aria-pressed="${pins.includes(x.id)}" aria-label="${pins.includes(x.id)?'Unpin':'Pin'} ${x.label}" title="${pins.includes(x.id)?'Remove shortcut':'Keep as a shortcut'}">${PIN_SVG}</button></li>`).join('');
   $('pins').innerHTML=pins.map(id=>{const x=CATS.find(c=>c.id===id);return `<button class="tab" id="tab-${id}" aria-pressed="${id===cat}" aria-selected="${id===cat}" style="--dot:var(--c-${id})" data-cat="${id}"><i></i>${x.label}</button>`}).join('');
 }
@@ -591,7 +595,7 @@ function openLook(img){ if(!img) return; const im=$('lookImg'); im.src=thumbOf(i
   $('look').hidden=false; }
 $('look').onclick=()=>{$('look').hidden=true;$('lookImg').src=''};
 document.addEventListener('keydown',e=>{ if(e.key==='Escape'&&!$('look').hidden){$('look').hidden=true;$('lookImg').src=''} });
-$('lede').innerHTML='Jigsaw puzzles of spooky Halloween scenes, cozy Christmas and holiday pictures, famous paintings, fantasy worlds, fairy tales, landscapes, animals, sports and racing, happy sayings, or your own photos.<br>Pick any picture and choose from 100 to 1,000 pieces.';
+$('lede').innerHTML='Jigsaw puzzles of spooky Halloween scenes, cozy Christmas and holiday pictures, famous paintings, fantasy worlds, fairy tales, landscapes, animals, sports and racing, happy sayings, or your own photos.';
 renderTabs();renderGrid();
 function renderPromo(){ const p=PROMOS.find(promoActive); const el=$('promo'); if(!p){el.hidden=true;return}
   const img=findImg(p.slug); if(!img){el.hidden=true;return}

diff --git a/public/sw.js b/public/sw.js
@@ -1,4 +1,4 @@
-const C='puzzle-parlor-cd32be26b9';
+const C='puzzle-parlor-a8a8ba84bf';
 self.addEventListener('install',e=>{e.waitUntil(caches.open(C).then(c=>c.addAll(['./index.html','./manifest.webmanifest','./icon-192.png'])));self.skipWaiting()});
 self.addEventListener('activate',e=>{e.waitUntil(caches.keys().then(ks=>Promise.all(ks.filter(k=>k!==C&&k!=='puzzle-parlor-media').map(k=>caches.delete(k)))));self.clients.claim()});
 self.addEventListener('fetch',e=>{
